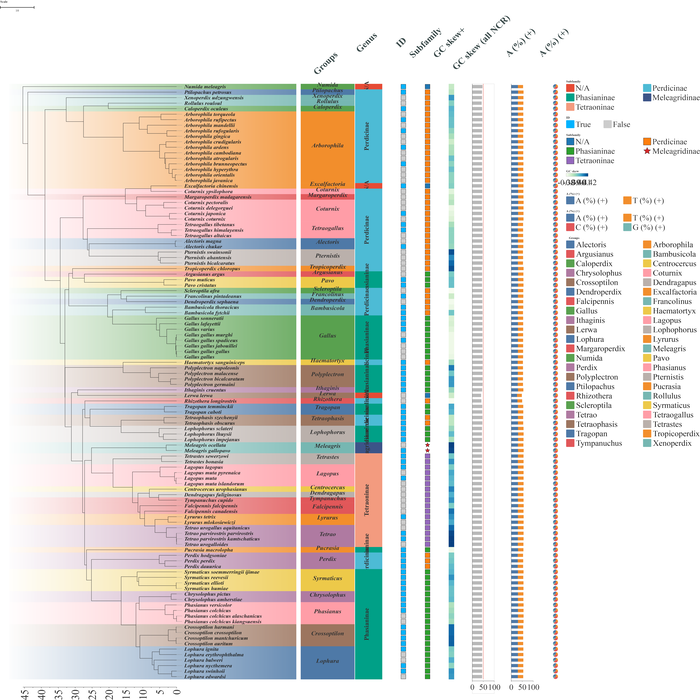
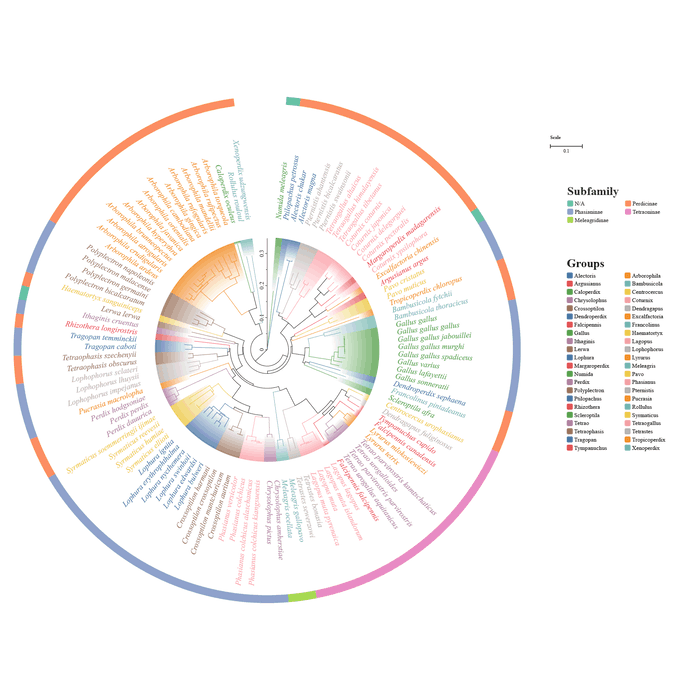
update

diff --git a/BioStatPlot/COMMON/tree/tree-app.js b/BioStatPlot/COMMON/tree/tree-app.js
@@ -191,29 +191,65 @@ function enableWheelZoom(svg) {
 let bmLastFrame = null;
 function exportSvgString() {
   const svg = C.getSvg(); const vb = C.getViewBox();
-  if (!svg) return '';     
+  if (!svg) return '';
   const clone = svg.cloneNode(true);
   clone.setAttribute("xmlns", "http://www.w3.org/2000/svg");
   clone.setAttribute("viewBox", `${vb.x} ${vb.y} ${vb.w} ${vb.h}`);
   const k = 1600 / Math.max(vb.w, vb.h, 1);
   clone.setAttribute("width", Math.round(vb.w * k));
   clone.setAttribute("height", Math.round(vb.h * k));
-  
+
+  clone.querySelectorAll('[fill="transparent"]').forEach(el => el.remove());
+  clone.querySelectorAll('[stroke="transparent"]').forEach(el => el.remove());
+
+  clone.querySelectorAll('[style*="transparent"]').forEach(el => {
+    const s = (el.getAttribute('style') || '');
+    if (/fill\s*:\s*transparent/i.test(s) || /stroke\s*:\s*transparent/i.test(s)) el.remove();
+  });
+
   clone.querySelectorAll('.node-hotspot').forEach(el => {
     const fill = el.getAttribute('fill');
     const stroke = el.getAttribute('stroke');
-    if (fill === 'transparent' || stroke === 'transparent') {
-      el.remove();                         
+    if (fill === 'transparent' || stroke === 'transparent' ||
+        fill === 'none' || stroke === 'none') {
+      if ((fill === 'none' || fill === 'transparent') &&
+          (stroke === 'none' || stroke === 'transparent')) {
+        el.remove();
+      } else {
+        el.removeAttribute('class');
+        el.removeAttribute('data-id');
+      }
     } else {
-      el.removeAttribute('class');         
+      el.removeAttribute('class');
       el.removeAttribute('data-id');
     }
   });
+
+  clone.querySelectorAll('[class],[style],[data-id],[data-track-band],[data-node-label-group],[data-length-label],[data-pie-marker-group],[data-range],[data-geo]').forEach(el => {
+    el.removeAttribute('class');
+    el.removeAttribute('style');
+    el.removeAttribute('data-id');
+    el.removeAttribute('data-track-band');
+    el.removeAttribute('data-node-label-group');
+    el.removeAttribute('data-length-label');
+    el.removeAttribute('data-pie-marker-group');
+    el.removeAttribute('data-range');
+    el.removeAttribute('data-geo');
+    el.removeAttribute('data-selected-for');
+    el.removeAttribute('data-palette-version');
+  });
+  clone.querySelectorAll('[pointer-events],[cursor]').forEach(el => {
+    el.removeAttribute('pointer-events');
+    el.removeAttribute('cursor');
+  });
+
   clone.querySelectorAll('.legend-hit').forEach(el => el.remove());
 
   bmLastFrame = { x: vb.x, y: vb.y, w: vb.w * k, h: vb.h * k };
   return new XMLSerializer().serializeToString(clone);
-}function download(filename, content, type) {
+}
+
+function download(filename, content, type) {
   const blob = new Blob([content], { type });
   const a = document.createElement("a");
   a.href = URL.createObjectURL(blob); a.download = filename; a.click();
